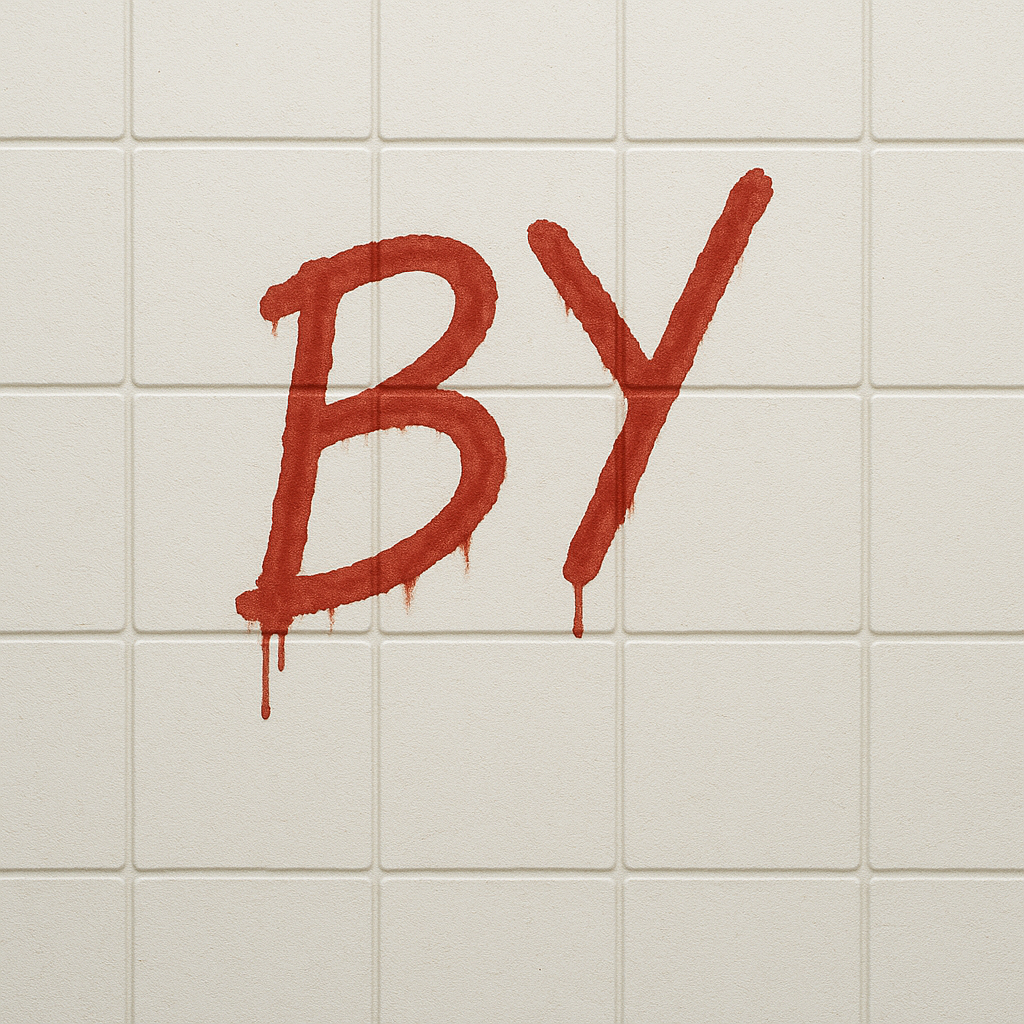
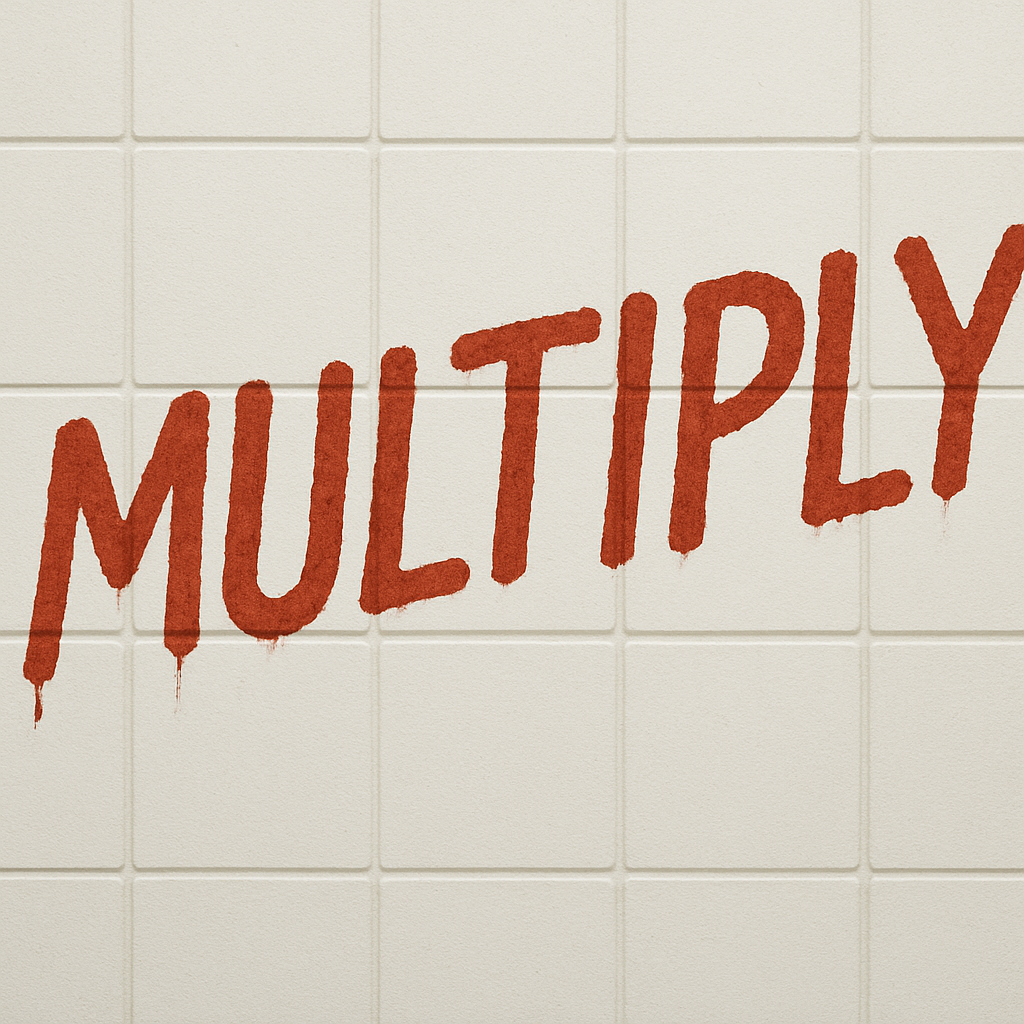
Uređenje levela 2 za veću protočnost, vrata od zagonetke bolje naznačena i završna vrata levela bolje naglašena, promjena zida zagonetke 'BY' u 'MULTIPLY'

Changed region(s): [[0.0, 0.1562, 1.0, 0.7188]]

diff --git a/levels/level2.py b/levels/level2.py
@@ -53,14 +53,14 @@ def get_level_data():
             'code': None,  # Uses code from first terminal
             'requires_door_id': None  # Requires second door to be opened
         },
-        {
-            #lijeva soba
-            'position': (7, 16),
-            'door_id': 5,
-            'requires_code': False,
-            'code': None,  # Uses code from first terminal
-            'requires_door_id': None  # Requires second door to be opened
-        },
+        #{
+        #    #lijeva soba
+        #    'position': (7, 16),
+        #    'door_id': 5,
+        #    'requires_code': False,
+        #    'code': None,  # Uses code from first terminal
+        #    'requires_door_id': None  # Requires second door to be opened
+        #},
         {
             #srednja soba lijeva
             'position': (10, 16),
@@ -77,17 +77,17 @@ def get_level_data():
             'code': None,  # Uses code from first terminal
             'requires_door_id': None  # Requires second door to be opened
         },
-        {
-            #desna soba
-            'position': (23, 16),
-            'door_id': 8,
-            'requires_code': False,
-            'code': None,  # Uses code from first terminal
-            'requires_door_id': None  # Requires second door to be opened
-        },
+        #{
+        #    #desna soba
+        #    'position': (23, 16),
+        #    'door_id': 8,
+        #    'requires_code': False,
+        #    'code': None,  # Uses code from first terminal
+        #    'requires_door_id': None  # Requires second door to be opened
+        #},
         {
             #unutarnja soba desne sobe
-            'position': (29, 15),
+            'position': (29, 16),
             'door_id': 9,
             'requires_code': True,
             'code': '42',  # Uses code from first terminal
@@ -137,8 +137,8 @@ def get_level_data():
         #srednja soba 4 stupa
         (('level2', 'ukras1'), (14.9, 15.9)),
         (('level2', 'ukras1'), (16.1, 15.9)),
-        (('level2', 'ukras1'), (14.9, 16.1)),
-        (('level2', 'ukras1'), (16.1, 16.1)),
+        (('level2', 'ukras1'), (14.9, 17.1)),
+        (('level2', 'ukras1'), (16.1, 17.1)),
 
         #srednja soba pored gornja vrata
         (('level2', 'ukras2'), (14.9, 13.1)),
@@ -181,12 +181,12 @@ def get_level_data():
 
         #LIJEVA SOBA
         #lijeva soba vanjska vrata vanjsko
-        (('level2', 'ukras2'), (8.1, 15.9)),
-        (('level2', 'ukras2'), (8.1, 17.1)),
+        #(('level2', 'ukras2'), (8.1, 15.9)),
+        #(('level2', 'ukras2'), (8.1, 17.1)),
 
         #lijeva soba vanjska vrata
-        (('level2', 'ukras2'), (6.9, 15.9)),
-        (('level2', 'ukras2'), (6.9, 17.1)),
+        #(('level2', 'ukras2'), (6.9, 15.9)),
+        #(('level2', 'ukras2'), (6.9, 17.1)),
 
         #lijeva soba unutarnja vrata vanjsko
         (('level2', 'ukras2'), (5.1, 15.9)),
@@ -199,22 +199,23 @@ def get_level_data():
 
         #DESNA SOBA
         #desna soba vanjska vrata vanjsko
-        (('level2', 'ukras2'), (22.9, 15.9)),
-        (('level2', 'ukras2'), (22.9, 17.1)),
+        #(('level2', 'ukras2'), (22.9, 15.9)),
+        #(('level2', 'ukras2'), (22.9, 17.1)),
 
         #desna soba vanjska vrata
-        (('level2', 'ukras2'), (24.1, 15.9)),
-        (('level2', 'ukras2'), (24.1, 17.1)),
+        #(('level2', 'ukras2'), (24.1, 15.9)),
+        #(('level2', 'ukras2'), (24.1, 17.1)),
       
 
         #PROLAZI
+        
         #prvi prolaz ulaz
-        (('level2', 'ukras3'), (12.5, 8.9)),
-        (('level2', 'ukras3'), (18.5, 8.9)),
-
-        #drugi prolaz ulaz
         (('level2', 'ukras3'), (7.5, 8.9)),
         (('level2', 'ukras3'), (10.5, 8.9)),
+
+        #drugi prolaz ulaz
+        (('level2', 'ukras3'), (12.5, 8.9)),
+        (('level2', 'ukras3'), (18.5, 8.9)),
 
         #treći prolaz ulaz
         (('level2', 'ukras3'), (26.5, 8.9)),
@@ -234,22 +235,22 @@ def get_level_data():
 
         #LIJEVI HODNIK
         #ulaz lijevi hodnik
-        (('level2', 'ukras3'), (7.5, 11.9)),
+        #(('level2', 'ukras3'), (7.5, 11.9)),
         (('level2', 'ukras3'), (10.5, 11.9)),
 
         #izlaz lijevi hodnik
-        (('level2', 'ukras3'), (7.5, 21.1)),
+        #(('level2', 'ukras3'), (7.5, 21.1)),
         (('level2', 'ukras3'), (10.5, 21.1)),
 
 
         #DESNO HODNIK
         #ulaz desni hodnik
         (('level2', 'ukras3'), (20.5, 11.9)),
-        (('level2', 'ukras3'), (23.5, 11.9)),
+        #(('level2', 'ukras3'), (23.5, 11.9)),
 
         #izlaz desni hodnik
         (('level2', 'ukras3'), (20.5, 21.1)),
-        (('level2', 'ukras3'), (23.5, 21.1)),
+        #(('level2', 'ukras3'), (23.5, 21.1)),
 
 
         #DUGI HODNIK NAKON SREDNJE SOBE

diff --git a/map.py b/map.py
@@ -60,15 +60,15 @@ MAPS = {
         [10,10,10,10,10,10,10,13, _, _,13,10,13, _, _, _, _, _,13,10,10,10,10,10,10,10,13, _, _,10,10,10], # 9
         [10, _, _, _, _, _, _, _, _, _, _, _, _, _, _, _, _, _, _, _, _, _, _, _, _, _, _, _, _, _, _,10], # 10
         [10, _, _, _, _, _, _, _, _, _, _, _, _, _, _, _, _, _, _, _, _, _, _, _, _, _, _, _, _, _, _,10], # 11
-        [10,10,10,10,10,10,10,13, _, _,13,10,10,10,10,16,10,10,10,10,13, _, _,13,10,10,10,10,10,10,10,10], # 12
-        [10, _, _, _, _, _, _,13, _, _,13, _, _, _, _, _, _, _, _, _,13, _, _,13, _, _, _, _, _, _, _,10], # 13
-        [18,18,18,18,18, _, _,13, _, _,13, _, _,24, _, _, _,24, _, _,13, _, _,13, _,18,18,18,18,20, _,10], # 14 Zid zagonetke (20)
-        [18, _, _, _,18, _, _,13, _, _,13, _, _, _, _, _, _, _, _, _,13, _, _,13, _,18, _, _, _,16, _,10], # 15 Soba 2 (Weapon Room - Zaključana Vrata 16) - Promatracnica
-        [22, _, _, _,16, _, _,16, _, _,16, _, _, _, _,21, _, _, _, _,16, _, _,16, _,18, _, _, _,19, _,10], # 16 Zidovi zagonetke (21, 22)
-        [18, _, _, _,18, _, _,13, _, _,13, _, _, _, _, _, _, _, _, _,13, _, _,13, _,18,18,18,18,18, _,10], # 17
-        [18,18,18,18,18, _, _,13, _, _,13, _, _,24, _, _, _,24, _, _,13, _, _,13, _, _, _, _, _, _, _,10], # 18
-        [10, _, _, _, _, _, _,13, _, _,13, _, _, _, _, _, _, _, _, _,13, _, _,13,10,10,10,10,10,10,10,10], # 19
-        [10,10,10,10,10,10,10,13, _, _,13,10,10,10,13,16,13,10,10,10,13, _, _,13,10,10,10,10,10,10,10,10], # 20
+        [10, _, _, _, _, _, _, _, _, _,13,10,10,10,10,16,10,10,10,10,13, _, _, _, _, _, _, _, _, _, _,10], # 12
+        [10, _, _, _, _, _, _, _, _, _,13, _, _, _, _, _, _, _, _, _,13, _, _, _, _, _, _, _, _, _, _,10], # 13
+        [18,18,18,18,18, _, _, _, _, _,13, _, _,24, _, _, _,24, _, _,13, _, _, _, _,18,18,18,18,20, _,10], # 14 Zid zagonetke (20)
+        [18, _, _, _,18, _, _, _, _, _,13, _, _, _, _, _, _, _, _, _,13, _, _, _, _,18, _, _, _,19, _,10], # 15 Soba 2 (Weapon Room - Zaključana Vrata 16) - Promatracnica
+        [22, _, _, _,16, _, _, _, _, _,16, _, _, _, _,21, _, _, _, _,16, _, _, _, _,18, _, _, _,31, _,10], # 16 Zidovi zagonetke (21, 22)
+        [18, _, _, _,18, _, _, _, _, _,13, _, _, _, _, _, _, _, _, _,13, _, _, _, _,18,18,18,18,18, _,10], # 17
+        [18,18,18,18,18, _, _, _, _, _,13, _, _,24, _, _, _,24, _, _,13, _, _, _, _, _, _, _, _, _, _,10], # 18
+        [10, _, _, _, _, _, _, _, _, _,13, _, _, _, _, _, _, _, _, _,13, _, _, _, _, _, _, _, _, _, _,10], # 19
+        [10, _, _, _, _, _, _, _, _, _,13,10,10,10,13,16,13,10,10,10,13, _, _, _, _, _, _, _, _, _, _,10], # 20
         [10, _, _, _, _, _, _, _, _, _, _, _, _, _, _, _, _, _, _, _, _, _, _, _, _, _, _, _, _, _, _,10], # 21
         [10, _, _, _, _, _, _, _, _, _, _, _, _, _, _, _, _, _, _, _, _, _, _, _, _, _, _, _, _, _, _,10], # 22
         [10, _, _,10,10,10,10,10,10,13,13,13,13, _, _, _, _, _,13,13,13,13,10,10,10,10,10,10,10, _, _,10], # 23
@@ -81,7 +81,7 @@ MAPS = {
         [10, _, _, _, _, _, _, _, _, _, _, _, _, _, _, _, _, _, _, _, _, _, _, _, _, _, _, _, _, _, _,10], # 30 
         [10,10,10,10,10,10,10,10, _, _, _,10,10,10,10,10,10,10,10,10,10,10,10,10,10,10,13, _, _, _,13,13], # 31
         [10,18,18, _, _, _, _,10, _, _, _,10,10,10,10,10,10,10,10,10,10,10,10,10,10,10,13, _, _, _, _,13], # 32
-        [10,18,23, _, _, _, _, _, _, _, _, _, _, _, _, _, _, _, _, _, _, _, _, _, _, _, _, _, _, _, _,16], # 33 Zid zagonetka (23) + Put do Izlaza X
+        [10,18,23, _, _, _, _, _, _, _, _, _, _, _, _, _, _, _, _, _, _, _, _, _, _, _, _, _, _, _, _,30], # 33 Zid zagonetka (23) + Put do Izlaza X
         [10,18,18, _, _, _, _, _, _, _, _, _, _, _, _, _, _, _, _, _, _, _, _, _, _, _, _, _, _, _, _,10], # 34 Prazan prostor / hodnik
         [10,10,10,10,10,10,10,10,10,10,10,10,10,10,10,10,10,10,10,10,10,10,10,10,10,10,10,10,10,10,10,10], # 35
     ],

diff --git a/object_renderer.py b/object_renderer.py
@@ -144,4 +144,7 @@ class ObjectRenderer:
             28: self.get_texture('resources/teksture/level3/zid4.png'), ## labaratorijski zid sa manje detalja biljka
             29: self.get_texture('resources/teksture/level3/vrata1.png'), ## žučkasta vrata za mapu zatvorena
 
+            30: self.get_texture('resources/teksture/level2/vrataPrelaz2.png'), ## završna vrata na levelu 2
+            31: self.get_texture('resources/teksture/level2/vrataZagonetka.png'), ## vrata za zagonetku
+
         }
